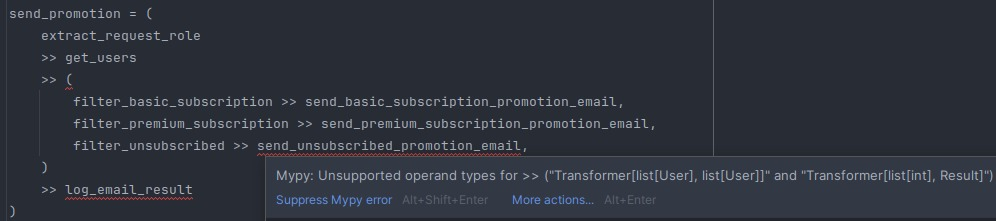
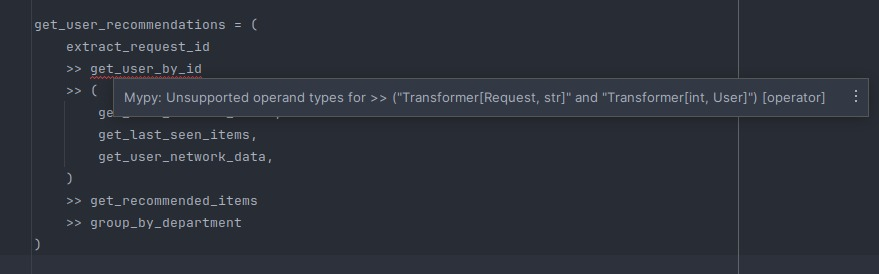
docs: redefining Gloe on README.md and improving example.

diff --git a/README.md b/README.md
@@ -4,7 +4,6 @@
 </div>
 
 
-
 | | | 
 | ---:|----|
 | Testing | [![CI - Test](https://github.com/ideos/gloe/actions/workflows/test.yml/badge.svg)](https://github.com/ideos/gloe/actions/workflows/test.yml) [![Coverage](https://codecov.io/github/ideos/gloe/coverage.svg?branch=main)](https://codecov.io/gh/ideos/gloe) |
@@ -22,19 +21,44 @@
 
 ***
 
-# Write a Better Python Flow
+### Table of Contents:
+<!-- TOC -->
+  * [Key Features](#key-features)
+  * [Installing](#installing)
+  * [Example](#example)
+    * [Flow Steps: Transformers](#flow-steps-transformers)
+    * [Maintainance](#maintainance)
+    * [Type checking](#type-checking)
+    * [Simple Usage](#simple-usage)
+    * [Quick Documentation](#quick-documentation)
+    * [Integration](#integration-)
+  * [Motivation](#motivation)
+    * [How Can Gloe Help Me?](#how-can-gloe-help-me)
+    * [Gloe is not a workflow orchestrator](#gloe-is-not-a-workflow-orchestrator)
+  * [License](#license)
+<!-- TOC -->
 
-Gloe (pronounced /ɡloʊ/, like "glow") is a general-purpose library made to help developers create, maintain, document, and test both operational and flow-oriented code. It is particularly useful in data science and machine learning pipelines, as well as in servers and scripts, or any area where there is a gap between the code and the logical business understanding. Gloe is not intended to be used across an entire application or to replace existing libraries. Instead, it is built to integrate with other tools and to address areas where the code complexity may be higher than expected.
+# Your Code Like a Flow
+
+Gloe (pronounced /ɡloʊ/, like "glow") is a general-purpose library designed to guide developers in expressing their code as a **flow**. 
+
+**Why follow this approach?** Because it ensures that Gloe can keep your Python code easy to maintain, document, and test. Gloe guides you to write code in the form of small, safely connected units, rather than relying on scattered functions and classes with no clear relationship.
+
+**What is a flow?** Formally, a flow is defined as a DAG (Directed Acyclic Graph) with one source and one sink, meaning it has a beginning and an end. In practice, it is a sequence of steps that transform data from one form to another.
+
+**Where can I use it?** Anywhere! Gloe is particularly useful for data science and machine learning pipelines, as well as for servers, scripts, or any area where there is a **gap between code and logical business understanding**.
+
+**[Give me examples!]()**
 
 ## Key Features
 
-- Use pure Python to write **type-safe** pipelines.
+- Write **type-safe** pipelines with pure Python.
 - Express a pipeline as a set of **atomic**, **isolated**, **extensible** and **trackable** units of responsibility called [transformers](https://gloe.ideos.com.br/theory.html).
-- [Validate the input, the output and the changes between input and output](https://gloe.ideos.com.br/getting-started/ensurers.html) of transformers during execution.
+- [Validate the input, the output and the changes between them](https://gloe.ideos.com.br/getting-started/ensurers.html) of transformers during execution.
 - [Mix sync and async](https://gloe.ideos.com.br/getting-started/async-transformers.html#async-pipelines) code without worrying about its concurrent nature.
-- Write a **readable** and **maintainable** code for extremely **complex flows**. ¹ 
-- Use it where and when you need it. Gloe does not require any significant changes to your existing workflow.
-- [Visualize you pipelines](https://gloe.ideos.com.br/getting-started/plotting.html) and the data flowing through it. ²
+- Keep your code **readable** and **maintainable**, even for **complex flows**. ¹ 
+- Use it **anywhere** without changing your existing workflow.
+- [Visualize you pipelines](https://gloe.ideos.com.br/getting-started/plotting.html) and the data flowing through them. ²
 - Use a functional approach to work with [conditions](https://gloe.ideos.com.br/getting-started/conditional-flows.html) and [collections](https://gloe.ideos.com.br/api-reference/gloe.collection.html).
 
 <sub>1. Gloe emerged in the context of a large application with extremely complex business logic. After transitioning the code to Gloe, maintenance efficiency improved by 200%, leading the entire team to adopt it widely.</sub>
@@ -48,7 +72,6 @@ Gloe (pronounced /ɡloʊ/, like "glow") is a general-purpose library made to hel
 pip install gloe
 ```
 
-
 ```shell
 # or conda
 conda install -c conda-forge gloe
@@ -56,70 +79,83 @@ conda install -c conda-forge gloe
 
 ## Example
 
-Consider the following pipeline. Its purpose is to send two types of promotional emails to users with specific roles. First, it extracts a role from an HTTP request, then fetches the users who belong to this role, sends the corresponding email to each group of users, and finally logs the results of the emails sent.
+Consider the following flow. It is part of an e-commerce server and starts from a HTTP request and ends with a list of recommended products. 
 
 
 ```python
-send_promotion = (
-    extract_request_role >>
-    get_users >> (
-        filter_basic_subscription >> send_basic_subscription_promotion_email,
-        filter_premium_subscription >> send_premium_subscription_promotion_email,
+get_recommendations = (
+    extract_request_id >>
+    get_user_by_id >> (
+        get_last_seen_items,
+        get_last_ordered_items,
+        get_user_network_data,
     ) >>
-    log_emails_result
+    get_recommended_items
 )
 ```
-By reading the code, do you think is it clear enough?
 
-Each step of a Gloe pipeline is called a transformer and creating one is as easy as:
+Steps of this flow:
+1. The user ID is extracted from the request. 
+2. The corresponding user data is retrieved using this ID. 
+3. Three pieces of information about the user are gathered: the last seen items, the last ordered items, and the user's network data (such as personal information and relationships). 
+4. These three pieces of information are used to generate a list of recommended items for this specific user.
+
+Can we agree that it is easy to understand just by reading the code?
+
+### Flow Steps: Transformers
+
+Each step of a flow is called a **transformer** and creating one is as easy as:
 
 ```python
 from gloe import transformer
 
 @transformer
-def extract_request_role(req: Request) -> str:
+def extract_request_id(req: Request) -> int:
     # your logic goes here
 ```
 
-You can connect many transformers using the right shift operator, just like the above example. When the argument of the `>>` is a tuple, you are creating branches. 
 
-> Learn more about [creating transformers](https://gloe.ideos.com.br/getting-started/transformers.html) and [pipelines](https://gloe.ideos.com.br/getting-started/transformers.html#building-a-pipeline).
+
+You can connect many transformers using the right shift operator, just like the above example. When the argument of `>>` is a tuple, you are creating branches using the default [parallel gateway](). 
+
+> Learn more about [creating transformers](https://gloe.ideos.com.br/getting-started/transformers.html), [pipelines](https://gloe.ideos.com.br/getting-started/transformers.html#building-a-pipeline), and [gateways]().
 
 ### Maintainance
 
-When the manager asks you to include promotional emails for unsubscribed users as well, the refactoring process is straightforward:
+When the manager requests you to return the items grouped by department instead of in a flat list, the refactoring process is straightforward:
 
-```python
-send_promotion = (
-    extract_request_role >>
-    get_users >> (
-        filter_basic_subscription >> send_basic_subscription_promotion_email,
-        filter_premium_subscription >> send_premium_subscription_promotion_email,
-        filter_unsubscribed >> send_unsubscribed_promotion_email,
+```diff python
+get_user_recommendations = (
+    extract_request_id >>
+    get_user_by_id >> (
+        get_last_seen_items,
+        get_last_ordered_items,
+        get_user_network_data,
     ) >>
-    log_emails_result
+    get_recommended_items >>
+    group_by_department
 )
 ```
 
-> See the [full code](https://gloe.ideos.com.br/getting-started/plotting.html) (transformers definition).
+> See [full transformers definition](https://gloe.ideos.com.br/getting-started/plotting.html).
 
 ### Type checking
 
-If, by some chance, you connect two transformers with incompatible types, the IDE along with [Mypy](https://github.com/python/mypy) will warn you about the malformed pipeline.
+If, by some chance, you connect two transformers with incompatible types, the IDE along with [Mypy](https://github.com/python/mypy) will warn you about the malformed flow.
 
-For example, suppose you implemented the `send_unsubscribed_promotion_email` transformer expecting a list of integer ids:
+For example, suppose you implemented the `extract_request_id` transformer returning a string instead of a integer ID:
 
 ```python
 @transformer
-def send_unsubscribed_promotion_email(ids: list[int]) -> Result:
+def extract_request_id(request: Request) -> str:
     ...
 ```
 
-But the `filter_unsubscribed` transformer returns a list of users:
+But the `get_user_by_id` transformer expects an `int` as input:
 
 ```python
 @transformer
-def filter_unsubscribed(users: list[User]) -> list[User]:
+def get_user_by_id(user_id: int) -> User:
     ...
 ```
 
@@ -132,10 +168,11 @@ The result will be something like this:
 Considering is everything okay about the types, this pipeline can be invoked from a server, for example:
 
 ```python
-@users_router.post('/send-promotion/:role')
-def send_promotion_emails_route(req: Request):
-    return send_promotion(req)
+@users_router.get('/:user_id/recommended')
+def recommended_items_route(req: Request):
+    return get_user_recommendations(req)
 ```
+
 ### Quick Documentation
 
 When you need to document it somewhere, you can just [plot it](https://gloe.ideos.com.br/getting-started/plotting.html).
@@ -144,23 +181,24 @@ When you need to document it somewhere, you can just [plot it](https://gloe.ideo
 
 ### Integration 
 
-Suppose you don't need to extract the role within the pipeline because you are using a web framework that already does it, like [FastAPI](https://fastapi.tiangolo.com/), you can remove the `extract_request_role` transformer. Since the incoming type for `get_users` is string, the configuration would be:
+Suppose you don't need to extract the user ID within the flow because you are using a web framework that already does it, like [FastAPI](https://fastapi.tiangolo.com/), you can remove the `extract_request_id` transformer. Since the incoming type for `get_user_by_id` is integer, the configuration would be:
 
 
 ```python
-send_promotion = (
-    get_users >> (
-        filter_basic_subscription >> send_basic_subscription_promotion_email,
-        filter_premium_subscription >> send_premium_subscription_promotion_email,
-        filter_unsubscribed >> send_unsubscribed_promotion_email,
+get_user_recommendations = (
+    get_user_by_id >> (
+        get_last_seen_items,
+        get_last_ordered_items,
+        get_user_network_data,
     ) >>
-    log_emails_result
+    get_recommended_items >>
+    group_by_department
 )
 
 
-@users_router.post('/send-promotion/{role}')
-def send_promotion_emails_route(role: str):
-    return send_promotion(role)
+@users_router.get('/{user_id}/recommended')
+def recommended_items_route(user_id: int):
+    return get_user_recommendations(user_id)
 ```
 
 We hope the above example illustrates how easily you can identify maintenance points and gain confidence that the rest of the code will continue to working properly, as long as the transformers' interfaces remain satisfied.
@@ -175,7 +213,7 @@ When developers write a code, they are telling a story to the next person who wi
 
 ### How Can Gloe Help Me?
 
-Gloe comes to turn this story coherent, logically organized and easy to follow. This is achieved by dividing the code into [concise steps](https://gloe.ideos.com.br/theory.html) with an unambiguous responsibility and explicit interface. Then, Gloe allows you to connect these steps, clarifying their collaboration and identifying necessary changes during refactoring. Thus, you can quickly understand the entire story being told and enhance it. Inspired by things like [natural transformation](https://ncatlab.org/nlab/show/natural+transformation) and Free Monad (present in [Scala](https://typelevel.org/cats/datatypes/freemonad.html) and [Haskell](https://serokell.io/blog/introduction-to-free-monads)), Gloe implemented this approach using functional programming and strong typing concepts.
+Gloe comes to turn this story coherent, logically organized and easy to follow. This is achieved by dividing the code into [concise steps](https://gloe.ideos.com.br/theory.html) with an unambiguous responsibility and explicit interface. Then, Gloe allows you to connect these steps, clarifying their relationship and identifying necessary changes during refactoring. Thus, you can quickly understand the entire story being told and enhance it. Inspired by things like [natural transformation](https://ncatlab.org/nlab/show/natural+transformation) and Free Monad (present in [Scala](https://typelevel.org/cats/datatypes/freemonad.html) and [Haskell](https://serokell.io/blog/introduction-to-free-monads)), Gloe implemented this approach using functional programming and strong typing concepts.
 
 ### Gloe is not a workflow orchestrator
 
